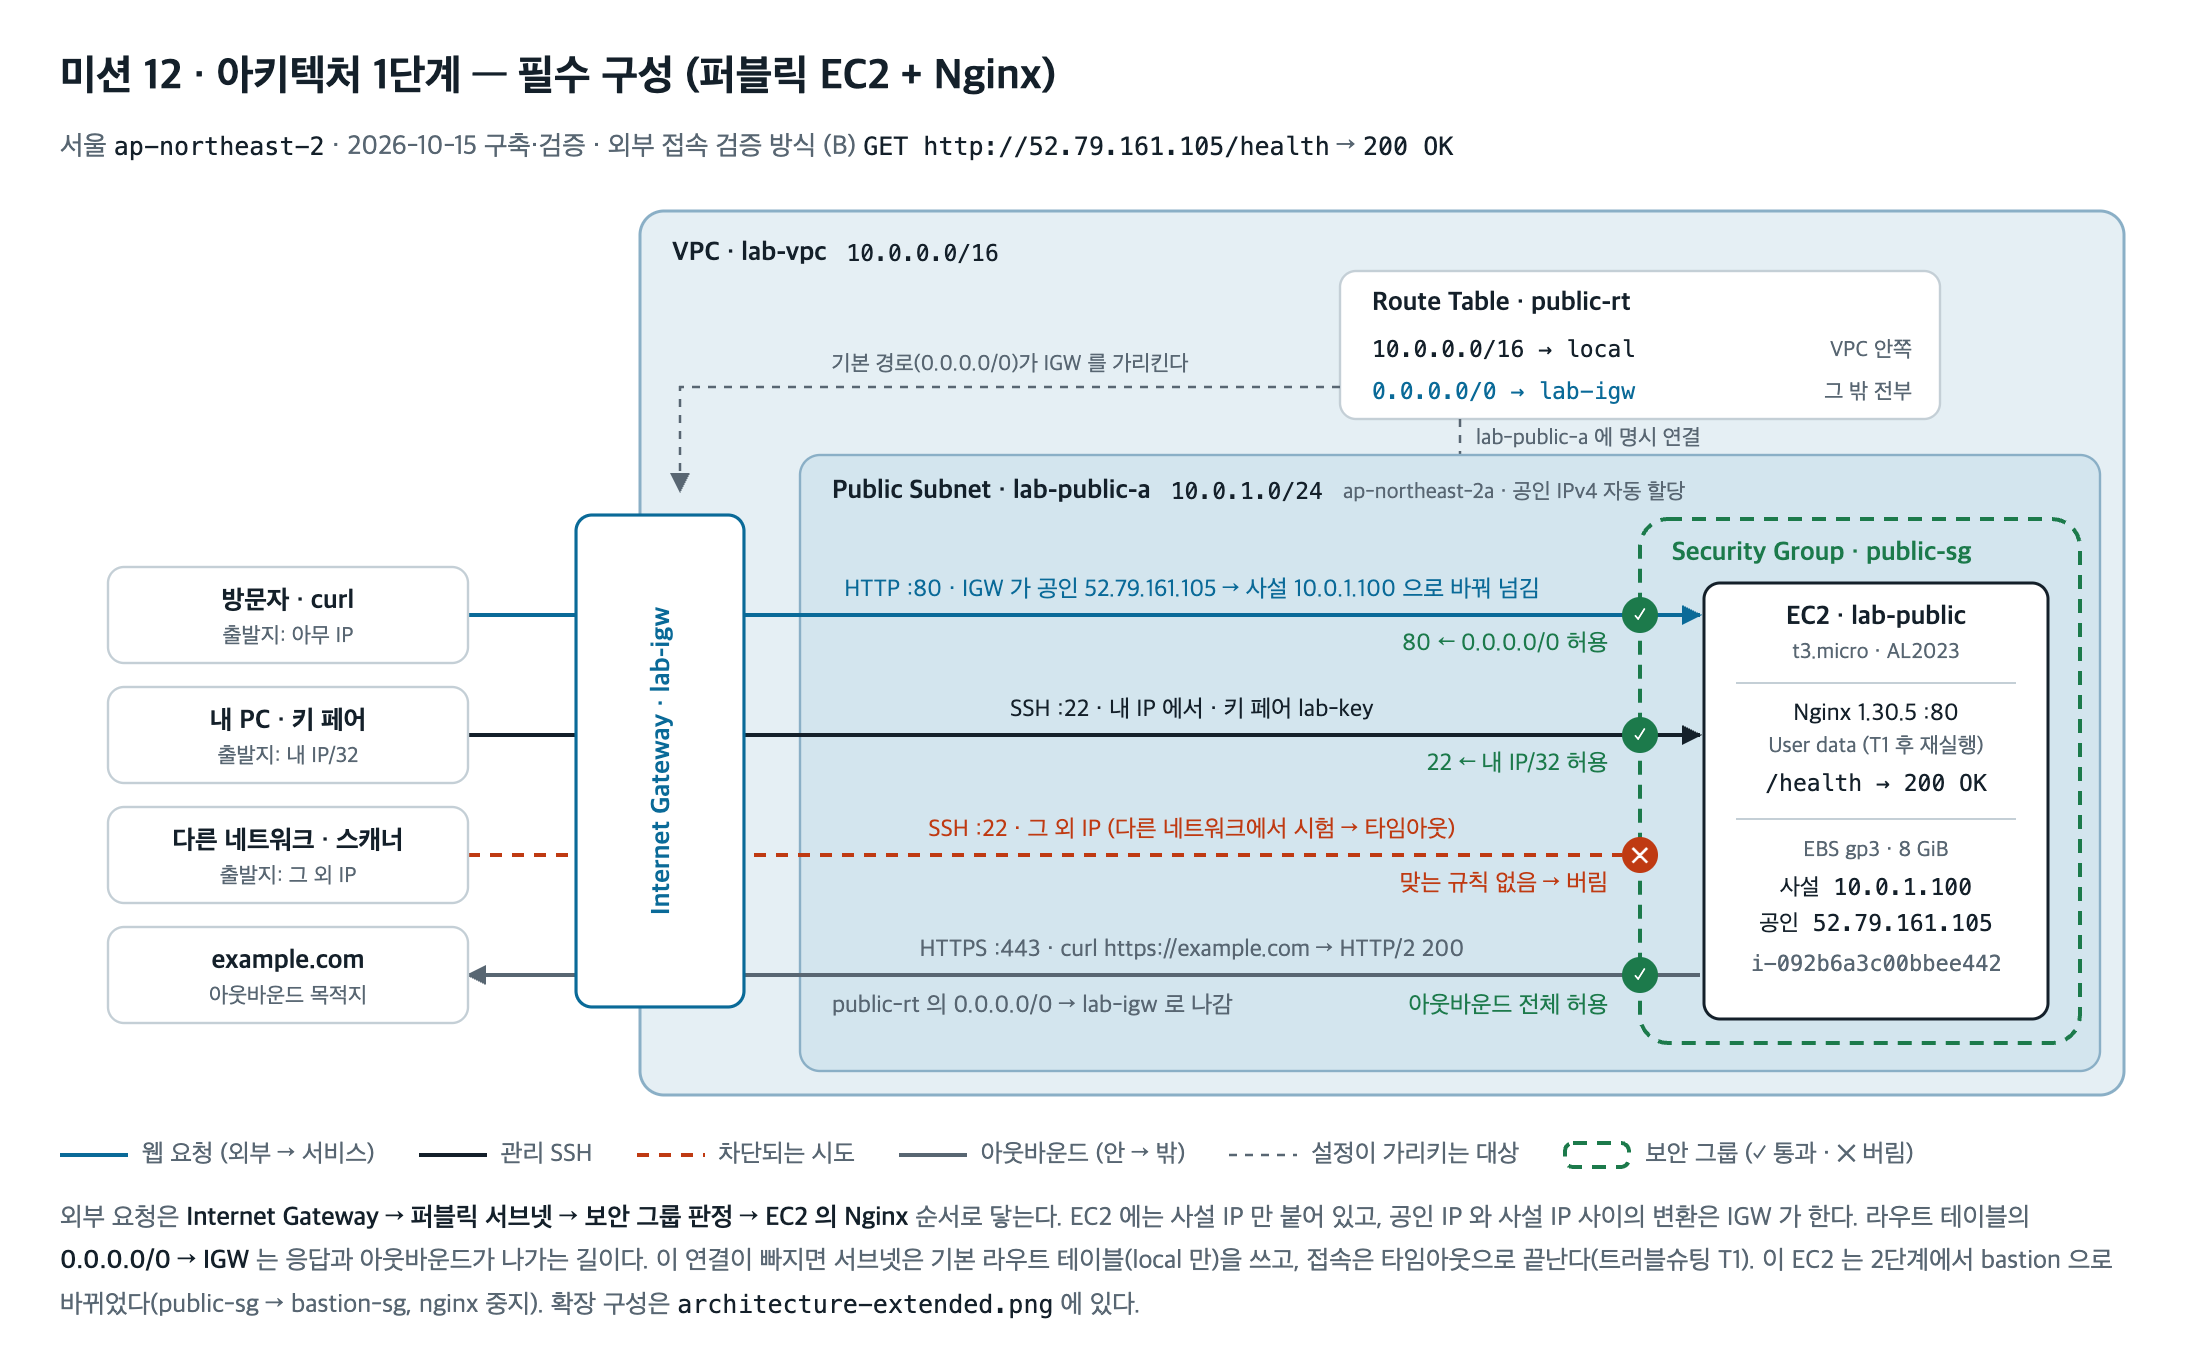
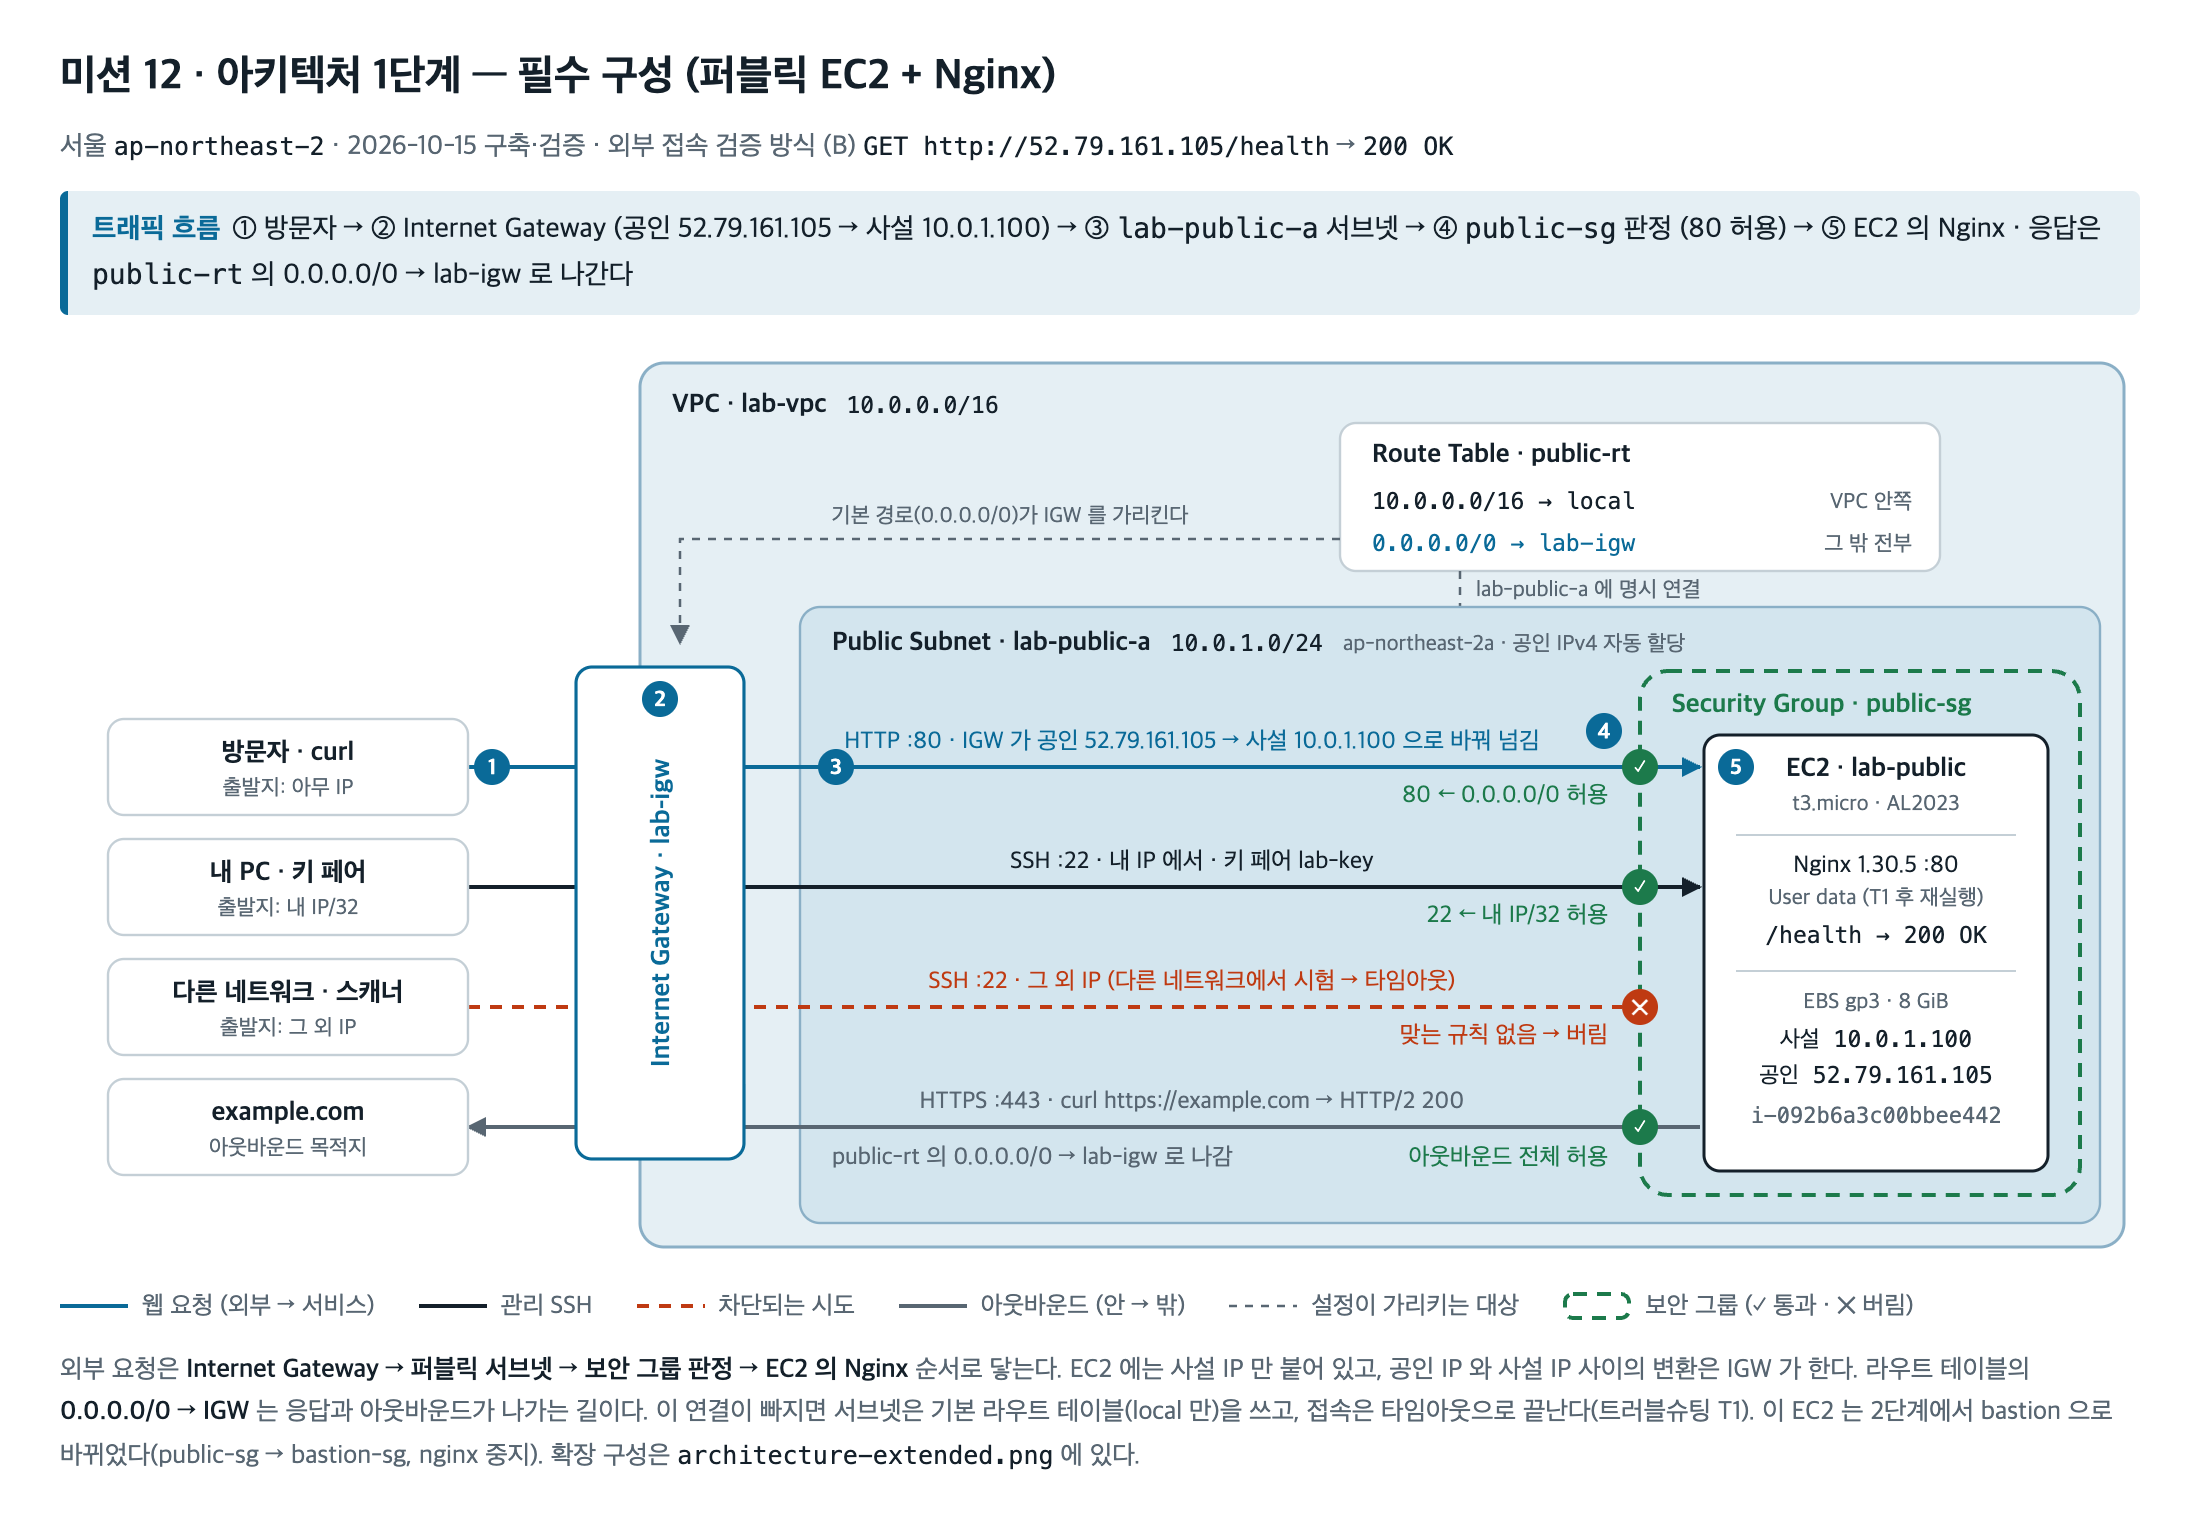
Docs: AI 사전평가 보완 — 접속 방식 이유·라우팅 요약·흐름 번호·권한 확인·점검 명령·정리 기대 결과

diff --git a/docs/troubleshooting.md b/docs/troubleshooting.md
@@ -8,7 +8,8 @@
 | [T-ALB](#t-alb--https-리스너-추가가-accessdenied-후-롤백) | HTTPS 리스너 추가가 AccessDenied 후 롤백 | 권한 (IAM 최소권한) | 실제 발생 | 19:5x ~ 20:14 |
 
 - 발췌한 로그는 실행한 명령과 출력을 그대로 옮겼다. 가린 값은 계정 ID(`************`)와 내 공인 IP(`x.x.x.x`) 두 가지뿐이다.
-  원본 로그는 레포에 올리지 않았다.
+  원본 로그 파일은 계정 ID · 내 IP · 인스턴스 메타데이터 토큰이 들어 있어 레포에 올리지 않았다.
+  대신 판단에 쓴 명령과 출력을 본문과 접힌 "원본 발췌"에 블록째 옮겼다.
 - 캡처는 [`screenshots/`](../screenshots/)에 있다. 구성 전체는 [`architecture.png`](architecture.png)(1단계)와 [`architecture-extended.png`](architecture-extended.png)(2단계)에 그렸다.
 
 ---
@@ -66,7 +67,69 @@ nc: connectx to 52.79.161.105 port 22 (tcp) failed: Operation timed out
 
 **H1 기각** (16:14:08) — `running`, System · Instance · EBS 상태 모두 `ok`(콘솔 "3/3 검사 통과"), 공인 IP 52.79.161.105 할당됨. +211초 재시도도 같았으므로 부팅 지연도 아니다.
 
+<details>
+<summary>원본 발췌 — 인스턴스 상태 · 네트워크</summary>
+
+```
+== t1 · check1 instance · 2026-10-15 16:14:08 KST ==
+$ aws ec2 describe-instance-status --instance-ids i-092b6a3c00bbee442
+[
+    {
+        "State": "running",
+        "SystemStatus": "ok",
+        "InstanceStatus": "ok",
+        "EbsStatus": "ok",
+        "Details": [
+            [
+                {
+                    "Name": "reachability",
+                    "Status": "passed"
+                }
+            ],
+            [
+                {
+                    "Name": "reachability",
+                    "Status": "passed"
+                }
+            ]
+        ]
+    }
+]
+$ aws ec2 describe-instances --instance-ids i-092b6a3c00bbee442 (network)
+[
+    {
+        "PublicIp": "52.79.161.105",
+        "PublicDns": "ec2-52-79-161-105.ap-northeast-2.compute.amazonaws.com",
+        "PrivateIp": "10.0.1.100",
+        "SubnetId": "subnet-020964110159af855"
+    }
+]
+```
+
+</details>
+
 **H2 기각** (16:16:24) — `igw-057393382633edab5` 가 `lab-vpc` 에 `available` 로 붙어 있다.
+
+<details>
+<summary>원본 발췌 — IGW 연결</summary>
+
+```
+== t1 · check2 internet gateway · 2026-10-15 16:16:24 KST ==
+$ aws ec2 describe-internet-gateways --filters Name=attachment.vpc-id,Values=vpc-04b89b36a6e5f95b3
+[
+    {
+        "Id": "igw-057393382633edab5",
+        "Attachments": [
+            {
+                "State": "available",
+                "VpcId": "vpc-04b89b36a6e5f95b3"
+            }
+        ]
+    }
+]
+```
+
+</details>
 
 **H3 기각** (16:16:24) — 규칙이 의도대로 들어 있다. 22 출처가 지금 내 PC 의 공인 IP 와 같은 것도 확인했다.
 
@@ -84,6 +147,52 @@ x.x.x.x
 (바깥 괄호와 앞의 `Id`·`Name` 줄은 빼고, 규칙마다 JSON 을 한 줄로 접었다. 값은 원본과 같다.)
 
 **H4 기각** (16:16:25) — 서브넷에 붙은 NACL 은 기본 NACL(`IsDefault: true`)이다. 인바운드·아웃바운드 모두 규칙 100 이 전체 allow 다.
+
+<details>
+<summary>원본 발췌 — NACL 규칙</summary>
+
+```
+== t1 · check4 network acl · 2026-10-15 16:16:25 KST ==
+$ aws ec2 describe-network-acls --filters Name=association.subnet-id,Values=subnet-020964110159af855
+[
+    {
+        "Id": "acl-0a89c2d8c7480580c",
+        "IsDefault": true,
+        "Entries": [
+            {
+                "Rule": 100,
+                "Egress": true,
+                "Proto": "-1",
+                "Cidr": "0.0.0.0/0",
+                "Action": "allow"
+            },
+            {
+                "Rule": 32767,
+                "Egress": true,
+                "Proto": "-1",
+                "Cidr": "0.0.0.0/0",
+                "Action": "deny"
+            },
+            {
+                "Rule": 100,
+                "Egress": false,
+                "Proto": "-1",
+                "Cidr": "0.0.0.0/0",
+                "Action": "allow"
+            },
+            {
+                "Rule": 32767,
+                "Egress": false,
+                "Proto": "-1",
+                "Cidr": "0.0.0.0/0",
+                "Action": "deny"
+            }
+        ]
+    }
+]
+```
+
+</details>
 
 **H5 채택** (16:16:26) — 이 서브넷을 명시적으로 연결한 라우트 테이블이 **없다**. 명시 연결이 없는 서브넷은 VPC 의 기본(main) 라우트 테이블을 쓴다.
 그런데 기본 라우트 테이블에는 `local` 경로 하나뿐이다.
@@ -157,6 +266,17 @@ $ grep -n -E 'dnf install|Curl error \(28\)' t1-7-check6-console-output.txt | he
    여러 포트가 동시에 타임아웃이면 경로부터 본다.
 4. **배포 확인은 "접속된다"에서 끝내지 않는다.** User data 가 네트워크에 기대는 작업(패키지 설치)을 하다 실패하면 재부팅해도 다시 돌지 않는다.
    `systemctl is-active nginx`, `/var/log/cloud-init-output.log` 로 설치 결과를 따로 확인한다.
+
+**점검 명령** — 외부 접속이 타임아웃일 때 바깥에서 안쪽 순서로 실행한다. 이번 T1 에서 쓴 명령 그대로다(`--profile`·`--region` 생략).
+
+```bash
+aws ec2 describe-instance-status --instance-ids <인스턴스>                                  # 1 인스턴스 상태 검사
+aws ec2 describe-internet-gateways --filters Name=attachment.vpc-id,Values=<VPC>            # 2 IGW 가 VPC 에 붙어 있나
+aws ec2 describe-security-groups --group-ids <SG>                                           # 3 인바운드 포트 · 출처
+aws ec2 describe-network-acls --filters Name=association.subnet-id,Values=<서브넷>          # 4 NACL deny 규칙
+aws ec2 describe-route-tables --filters Name=association.subnet-id,Values=<서브넷>          # 5 [] 이면 기본 라우트 테이블을 쓰는 중
+aws ec2 get-console-output --instance-id <인스턴스> --latest --output text                  # 6 부팅 로그 — 안에서 밖으로도 막혔나
+```
 
 캡처: [`t1-1-resource-map-before.png`](../screenshots/t1-1-resource-map-before.png) ·
 [`t1-2-check1-instance.png`](../screenshots/t1-2-check1-instance.png) ·
